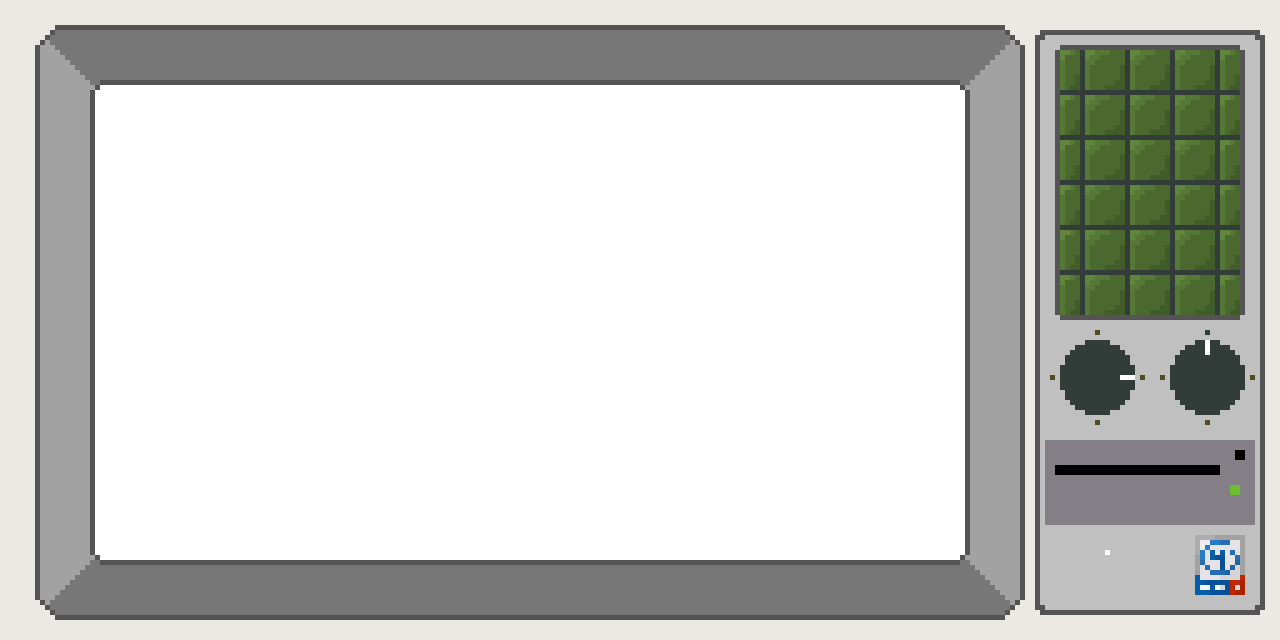
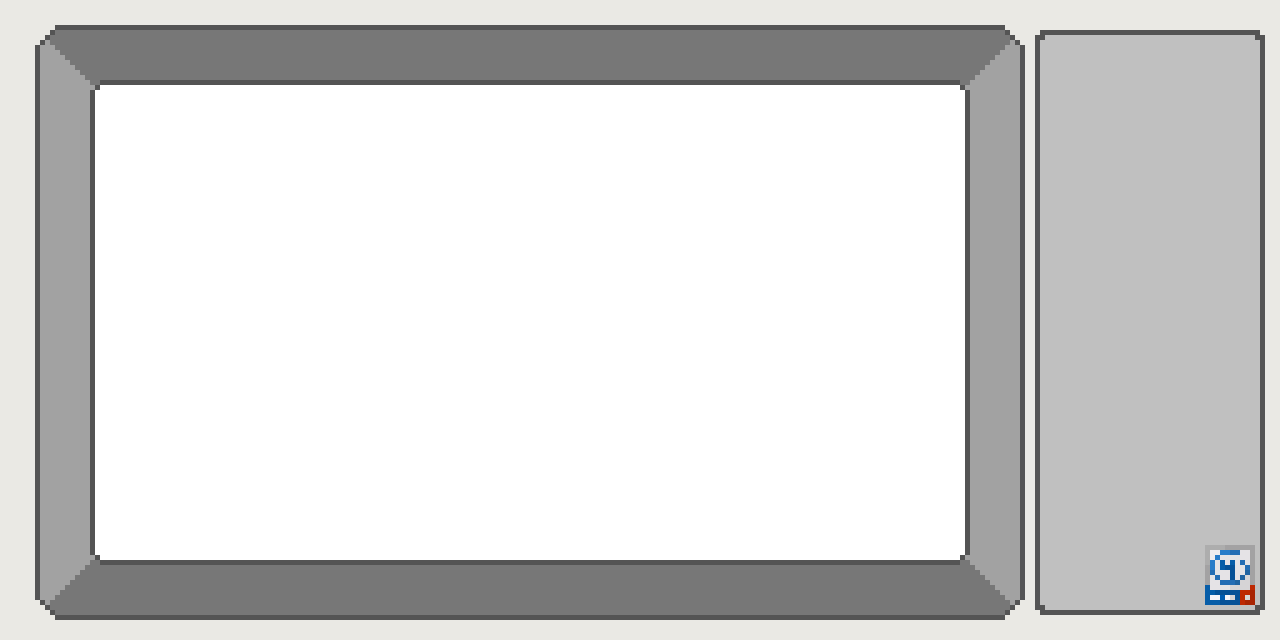
agregada interfac pc

Changed region(s): [[0.8125, 0.0625, 1.0, 0.5], [0.8125, 0.6875, 1.0, 0.9688], [0.8125, 0.5312, 1.0, 0.6562]]

diff --git a/js/interfaces.js b/js/interfaces.js
@@ -1,0 +1,138 @@
+//#region TvInterfaceClass
+class TvInterface{
+    constructor(){
+        
+        this.tvbulbs=[  new ImageDraw(position={x:214,y:13},32,16,imgTvBulb,0,0,'',1,10),//new AnimatedImage(position={x:214,y:13},32,16,imgTvBulb,1,10,0),
+                        new ImageDraw(position={x:214,y:29},32,16,imgTvBulb,0,1,'',1,10),//new AnimatedImage(position={x:214,y:29},32,16,imgTvBulb,1,10,1),
+                        new ImageDraw(position={x:214,y:45},32,16,imgTvBulb,0,2,'',1,10)]//new AnimatedImage(position={x:214,y:45},32,16,imgTvBulb,1,10,2)]
+        this.tvscrews=[ new ImageDraw(position={x:213,y:12},4,4,imgTVScrew),
+                        new ImageDraw(position={x:213,y:58},4,4,imgTVScrew),
+                        new ImageDraw(position={x:243,y:12},4,4,imgTVScrew),
+                        new ImageDraw(position={x:243,y:58},4,4,imgTVScrew)]
+        this.downtvbutton=[new ImageDraw(position={x:210, y:80},19,13,imgTVButton,1,0),
+                            new ImageDraw(position={x:231, y:80}, 19,13,imgTVButton,0,1),
+                            new ImageDraw(position={x:210, y:94}, 19,13,imgTVButton,0,2),
+                            new ImageDraw(position={x:231, y:94}, 19,13,imgTVButton,0,3),
+                            new ImageDraw(position={x:210, y:108}, 19,13,imgTVButton,0,5),
+                            new ImageDraw(position={x:231, y:108}, 19,13,imgTVButton,1,4)
+                            ]
+        this.colortvbuttons=[new ImageDraw(position={x:209, y: 65},13,14,imgTvColorButtons,3,0),
+                            new ImageDraw(position={x:223, y: 65},13,14,imgTvColorButtons,3,1),
+                            new ImageDraw(position={x:237, y: 65},13,14,imgTvColorButtons,3,2)]
+    }
+    draw(){
+        ctx.drawImage(imgTvExt, 0, 0);
+        this.tvbulbs.forEach((bulb)=>{
+            bulb.drawAnimatedSprite()
+        })
+        this.colortvbuttons.forEach((button)=>{
+            button.drawSprite()
+        })
+        this.tvscrews.forEach((screw)=>{
+            screw.draw()
+        })
+        this.downtvbutton.forEach((button)=>{
+            button.drawSprite()
+        })
+        ctx.drawImage(imgTVCover, 211*screenSize.multiplier, 10*screenSize.multiplier);
+    }
+}
+
+class PcWindowExplorer extends ImageDraw{
+    constructor(position, width, height, image){
+        super(position,width,height, image)
+        this.optionbarborder= new Border(position={x:position.x+1,y:position.y+7},130,9)
+        this.minimizedborder= new Border(position={x:41,y:105},24,6)
+        this.showoptionbar=true
+    }
+    showWindow(){
+        this.update()
+    }
+    showOptions(){
+        this.update()       
+        ctx.fillStyle='#ece9d8'//'#ece9d8'
+        ctx.fillRect(this.optionbarborder.position.x, this.optionbarborder.position.y, this.optionbarborder.width,this.optionbarborder.height); 
+    }
+    showMinimized(){
+        ctx.fillStyle='#619ff0'//'#ece9d8'
+        ctx.fillRect(this.minimizedborder.position.x, this.minimizedborder.position.y-1*screenSize.multiplier, this.minimizedborder.width,1*screenSize.multiplier); 
+        ctx.fillStyle='#377ede'//'#ece9d8'
+        ctx.fillRect(this.minimizedborder.position.x, this.minimizedborder.position.y, this.minimizedborder.width,this.minimizedborder.height); 
+    }
+}
+
+class PcInterface{
+    constructor(){        
+        //this.button = new ImageDraw(position = { x: 210, y: 108 }, 19, 13, imgTVButton, 1, 5)
+        this.button= new ImageDraw(position = {x:210,y:106},13,14, imgPcButton,0,1)
+        this.pcdisk= new ImageDraw(position={x:209,y:87}, 42,17,imgPcDisk)
+        this.lights=[]
+        for(let i=0;i<3;i++){
+            this.lights.push(new ImageDraw(position={x:233,y:106+5*i}, 4,4,imgPcLight,0,i,'',1,50))
+            this.lights[i].timecounter=i*Math.floor(Math.random()*10)
+        }
+        this.pcselectbar = [new ImageDraw(position={x:212,y:67}, 36,5,imgPcSelectorBar),
+                            new ImageDraw(position={x:212,y:78}, 36,5,imgPcSelectorBar)]
+        this.pcselectpointer = [new ImageDraw(position={x:229,y:65}, 6,10,imgPcSelectorButton,0),
+                                new ImageDraw(position={x:215,y:76}, 6,10,imgPcSelectorButton,1)]
+        this.pcdisplay= new ImageDraw(position={x:211,y:10},38,55,imgPcWave)
+
+
+        this.toolbar= new ImageDraw(position={x:19,y:104},175,8,imgPcToolBar)
+        this.startbutton = new Border(position = {x:19,y:104}, 19,16)
+        this.toolbarscreen = new ImageDraw(position={x:19,y:41},53,63,imgPcToolBarScreen)
+        this.wavedisplay= new ImageDraw(position={x:211,y:10}, 38,54,)
+        this.showtoolbarscreen=false;
+        this.programs=[]
+
+        this.windowexplorer= new PcWindowExplorer(position={x:43,y:19},175,96,imgPcWindow)
+        this.windowinternet= new PcWindowExplorer(position={x:43,y:19},175,96,imgPcWindow)
+
+
+        this.trashicon = new ImageDraw(position={x:23,y:21},15,13,imgPcIcons,0,3)
+        this.foldericon = new ImageDraw(position={x:45,y:21}, 15,13, imgPcIcons,0,0)
+        this.date=new Date()
+        this.clock= new WriteText(position={x:186,y:108},50,100,'',15,'bold')
+    }
+    draw(){        
+        ctx.drawImage(imgPcWall, border.position.x, border.position.y);
+        this.toolbar.drawSprite()
+        ctx.fillStyle='white'
+        this.clock.write()
+        this.clock.text=this.getDate()
+        
+
+        this.trashicon.drawSprite()
+        this.foldericon.drawSprite()
+       
+
+        this.programs.forEach((program)=>{
+
+        })
+        this.windowexplorer.showMinimized()
+
+        if(this.showtoolbarscreen)this.toolbarscreen.draw()
+        ctx.drawImage(imgPcExt, 0, 0);
+
+        this.pcselectbar.forEach((bar)=>{
+            bar.drawSprite()
+        })
+        this.pcselectpointer.forEach((button)=>{
+            button.drawSprite()
+        }) 
+        this.pcdisk.draw()
+        this.button.drawSprite()
+        this.pcdisplay.drawSprite()
+        this.lights.forEach((light)=>{
+            light.drawAnimatedSprite()
+        })
+        
+
+        
+    }
+    getDate(){
+        //if(this.date.getMinutes() < 10) 
+        return (this.date.getHours()+':'+(this.date.getMinutes() < 10 ? '0' : '') + this.date.getMinutes());
+    }
+}
+//#endregion

diff --git a/js/load.js b/js/load.js
@@ -497,6 +497,14 @@ var imgPcToolBar = createImages('img/pc/BarraTareas');
 var imgPcScreen = createImages('img/pc/PantallaWindows');
 var imgPcToolBarScreen = createImages('img/pc/InicioWindows');
 var imgPcIcons = createImages('img/pc/IconosPc');
+var imgPcWindow = createImages('img/pc/PantallaWindows');
+var imgPcExplorerIcon = createImages('img/pc/explorerIcons');
+var imgPcDisk = createImages('img/pc/Disquetera');
+var imgPcLight = createImages('img/pc/PcLights');
+var imgPcWave = createImages('img/pc/PcOnda');
+var imgPcSelectorBar = createImages('img/pc/pcScrollBar');
+var imgPcSelectorButton = createImages('img/pc/pcScrollPoint');
+var imgPcButton = createImages('img/pc/BotonPC');
 //TV
 var imgTvExt = createImages('img/tv/televisionSimp');
 var imgTvColorButtons = createImages('img/tv/SpriteBotones');
@@ -579,79 +587,5 @@ function transitionStages(){
        
 
     })
-}
-//#endregion
-//#region TvInterfaceClass
-class TvInterface{
-    constructor(){
-        
-        this.tvbulbs=[  new ImageDraw(position={x:214,y:13},32,16,imgTvBulb,0,0,'',1,10),//new AnimatedImage(position={x:214,y:13},32,16,imgTvBulb,1,10,0),
-                        new ImageDraw(position={x:214,y:29},32,16,imgTvBulb,0,1,'',1,10),//new AnimatedImage(position={x:214,y:29},32,16,imgTvBulb,1,10,1),
-                        new ImageDraw(position={x:214,y:45},32,16,imgTvBulb,0,2,'',1,10)]//new AnimatedImage(position={x:214,y:45},32,16,imgTvBulb,1,10,2)]
-        this.tvscrews=[ new ImageDraw(position={x:213,y:12},4,4,imgTVScrew),
-                        new ImageDraw(position={x:213,y:58},4,4,imgTVScrew),
-                        new ImageDraw(position={x:243,y:12},4,4,imgTVScrew),
-                        new ImageDraw(position={x:243,y:58},4,4,imgTVScrew)]
-        this.downtvbutton=[new ImageDraw(position={x:210, y:80},19,13,imgTVButton,1,0),
-                            new ImageDraw(position={x:231, y:80}, 19,13,imgTVButton,0,1),
-                            new ImageDraw(position={x:210, y:94}, 19,13,imgTVButton,0,2),
-                            new ImageDraw(position={x:231, y:94}, 19,13,imgTVButton,0,3),
-                            new ImageDraw(position={x:210, y:108}, 19,13,imgTVButton,0,5),
-                            new ImageDraw(position={x:231, y:108}, 19,13,imgTVButton,1,4)
-                            ]
-        this.colortvbuttons=[new ImageDraw(position={x:209, y: 65},13,14,imgTvColorButtons,3,0),
-                            new ImageDraw(position={x:223, y: 65},13,14,imgTvColorButtons,3,1),
-                            new ImageDraw(position={x:237, y: 65},13,14,imgTvColorButtons,3,2)]
-    }
-    draw(){
-        ctx.drawImage(imgTvExt, 0, 0);
-        this.tvbulbs.forEach((bulb)=>{
-            bulb.drawAnimatedSprite()
-        })
-        this.colortvbuttons.forEach((button)=>{
-            button.drawSprite()
-        })
-        this.tvscrews.forEach((screw)=>{
-            screw.draw()
-        })
-        this.downtvbutton.forEach((button)=>{
-            button.drawSprite()
-        })
-        ctx.drawImage(imgTVCover, 211*screenSize.multiplier, 10*screenSize.multiplier);
-    }
-}
-
-class PcInterface{
-    constructor(){
-        this.toolbar= new ImageDraw(position={x:19,y:104},175,8,imgPcToolBar)
-        this.button = new ImageDraw(position = { x: 210, y: 108 }, 19, 13, imgTVButton, 1, 5)
-        this.startbutton = new Border(position = {x:19,y:104}, 36,16)
-        this.toolbarscreen = new ImageDraw(position={x:19,y:41},53,63,imgPcToolBarScreen)
-        this.showtoolbarscreen=false;
-
-        this.trashicon = new ImageDraw(position={x:23,y:21},15,13,imgPcIcons,0,3)
-        this.foldericon = new ImageDraw(position={x:45,y:21}, 15,13, imgPcIcons,0,0)
-        this.date=new Date()
-        this.clock= new WriteText(position={x:186,y:108},50,100,'',15,'bold')
-    }
-    draw(){        
-        ctx.drawImage(imgPcWall, border.position.x, border.position.y);
-        this.toolbar.drawSprite()
-        this.clock.write()
-        this.clock.text=this.getDate()
-        
-
-        this.trashicon.drawSprite()
-        this.foldericon.drawSprite()
-       
-        if(this.showtoolbarscreen)this.toolbarscreen.draw()
-        ctx.drawImage(imgPcExt, 0, 0);
-        this.button.drawSprite()
-        
-    }
-    getDate(){
-        //if(this.date.getMinutes() < 10) 
-        return (this.date.getHours()+':'+(this.date.getMinutes() < 10 ? '0' : '') + this.date.getMinutes());
-    }
 }
 //#endregion

diff --git a/index.html b/index.html
@@ -12,6 +12,7 @@
             <p>Miguel Coronel</p>
         </div>
         <script src="js/load.js"></script>
+        <script src="js/interfaces.js"></script>
         <script src="js/start.js"></script>
         <script src="js/aboutme.js"></script>
         <script src="js/space.js"></script>
